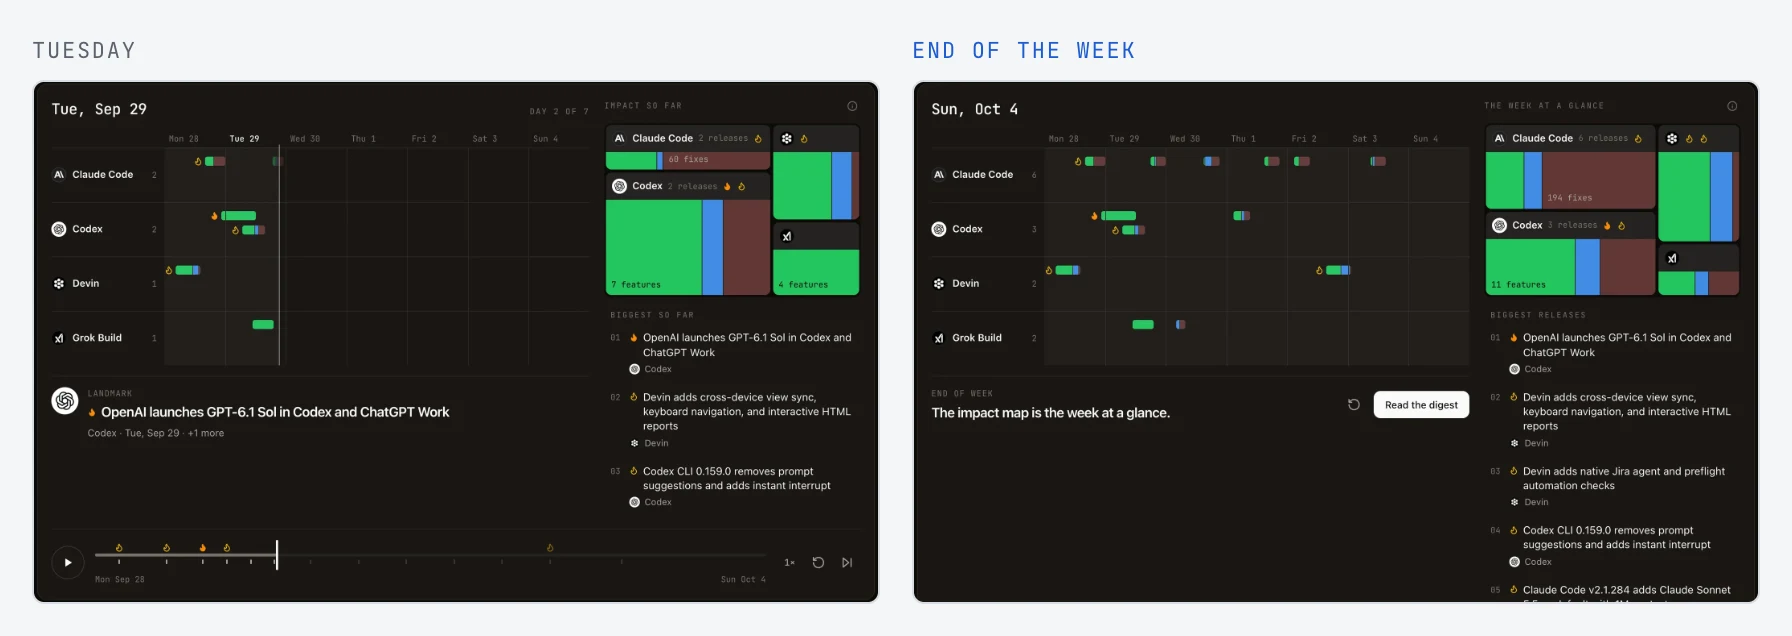
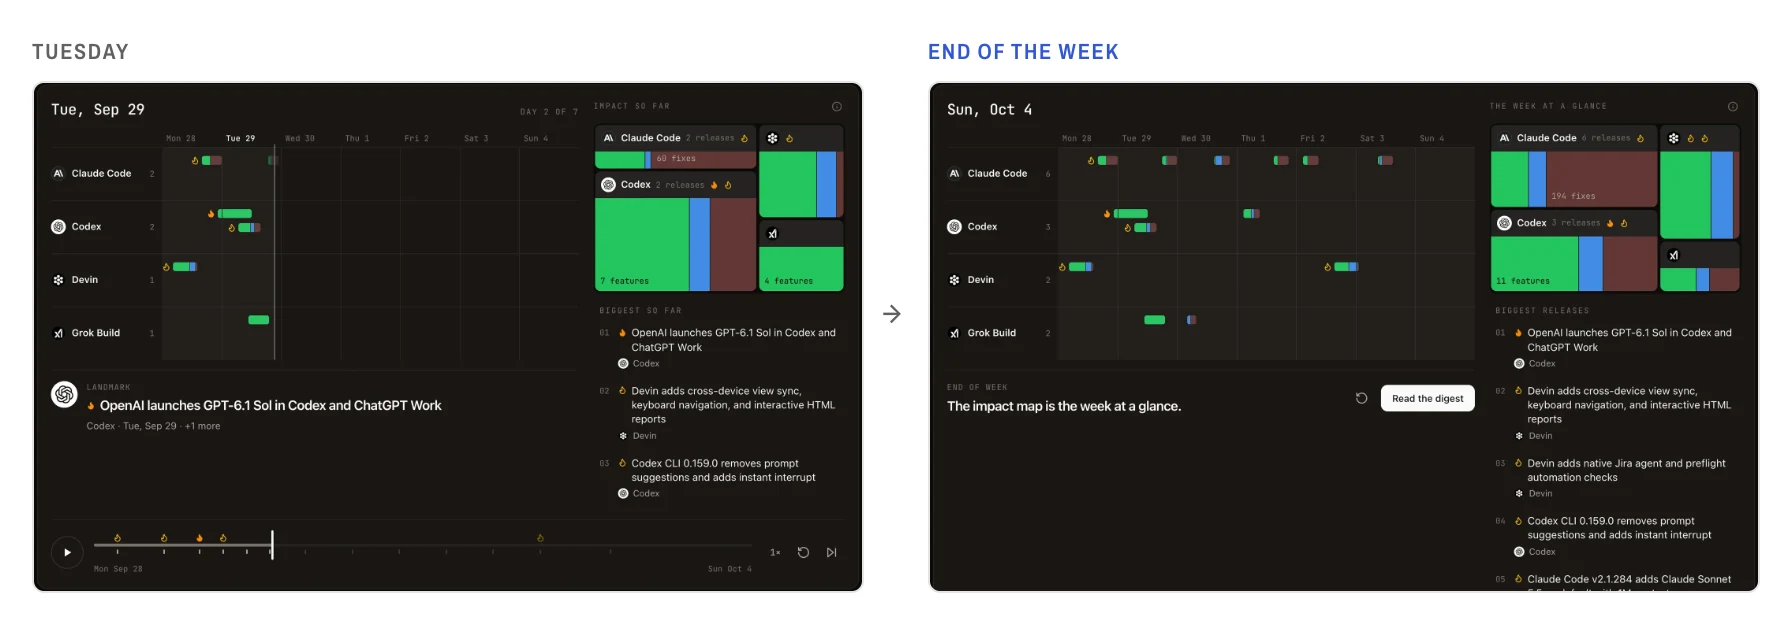
Re-export the README images from the current gallery and example
Same settings as the originals (export.mjs defaults: 16 px pad, 2x; the
GIFs at --scale 2; the masthead a 960x780 view at 2x), so every image keeps
its size. export.mjs now hides the expand icon and hotspot notes, which a
still or a loop can't use.

diff --git a/CHANGELOG.md b/CHANGELOG.md
@@ -27,4 +27,5 @@ Until the first release, changes are recorded under [Unreleased].
 
 - The weekly-digests example uses the current template: the card is a keyed figure over the shipped capture, the patch-pool bars and the replay frames use the `bars` and `strip` components, chapter 2 closes with a finding, and the sentence about the card's colors now says columns, as the card has. The README shows the keyed card and the field notes version.
 - `viz.mjs build` passes the page's folder to the renderers, so an image a spec names resolves relative to the page.
+- `export.mjs` hides the expand icon and hotspot notes in exports, and the README's images are re-exported with it from the current gallery and example.
 - Plain replaces the template's previous look: Archivo, Newsreader and IBM Plex Mono on a white page, and figures (flows, steps, diagrams) on plain ground between two rules instead of a bordered dot grid.
